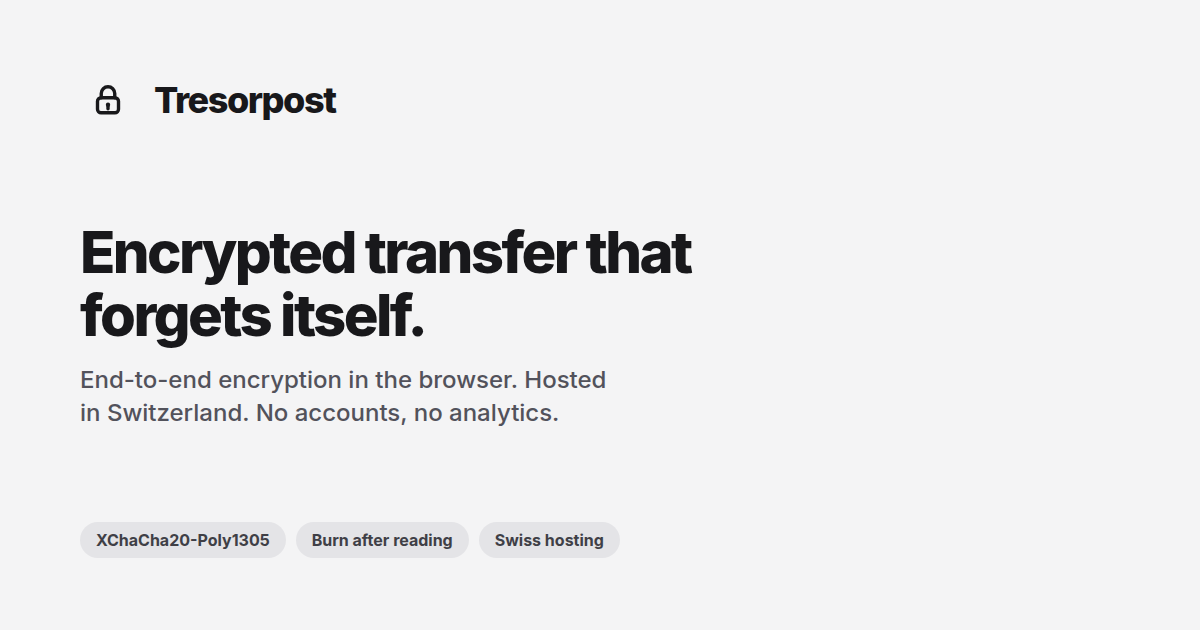
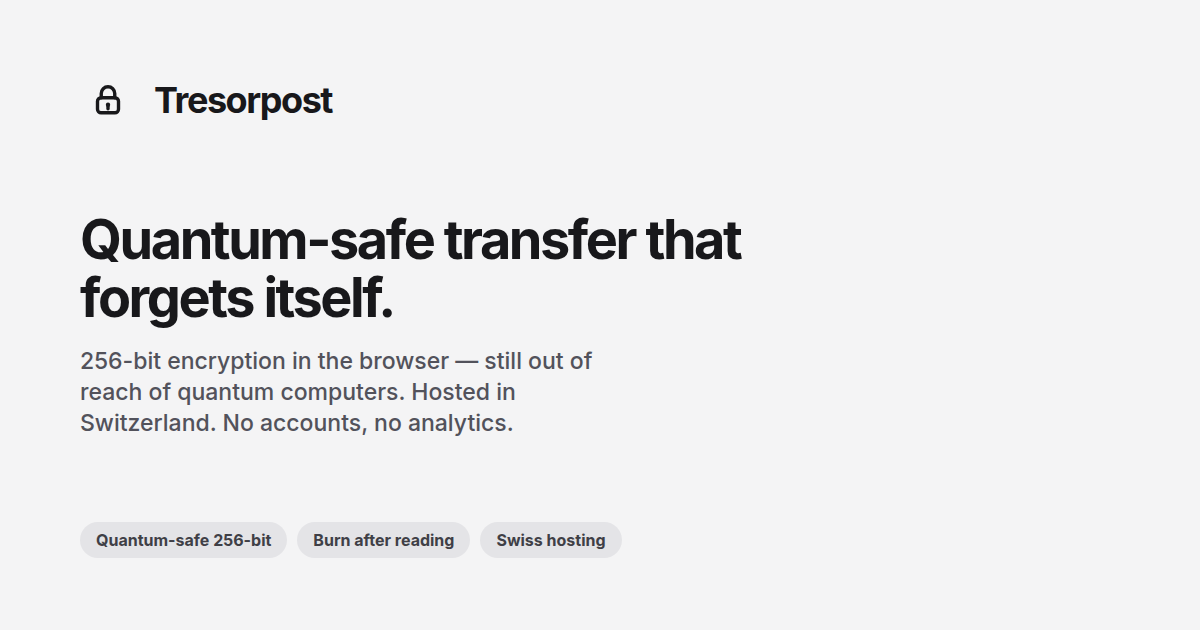
feat: quantum-safe OG headline that still forgets itself
The card kept the distinctive closer and named the 256-bit quantum-safe
claim instead of a generic “encrypted transfer” line.

Changed region(s): [[0.0617, 0.3317, 0.6167, 0.6937], [0.0617, 0.8444, 0.5242, 0.8746], [0.1233, 0.1206, 0.2775, 0.181]]

diff --git a/frontend/index.html b/frontend/index.html
@@ -6,8 +6,8 @@
   <meta name="color-scheme" content="light dark" />
   <meta name="theme-color" content="#f4f4f5" media="(prefers-color-scheme: light)" />
   <meta name="theme-color" content="#09090b" media="(prefers-color-scheme: dark)" />
-  <title>Tresorpost — encrypted self-destructing file transfer</title>
-  <meta name="description" content="End-to-end encrypted, self-destructing transfer for text, images, video and files. Encrypted in your browser, hosted in Switzerland, no accounts and no analytics." />
+  <title>Tresorpost — quantum-safe transfer that forgets itself</title>
+  <meta name="description" content="Quantum-safe, end-to-end encrypted transfer for text, images, video and files. 256-bit encryption in your browser, hosted in Switzerland, no accounts and no analytics." />
   <meta name="robots" content="index, follow" />
   <meta name="author" content="DOL" />
   <link rel="canonical" href="https://tresorpost.ch/" />
@@ -16,17 +16,17 @@
   <meta property="og:type" content="website" />
   <meta property="og:locale" content="en_GB" />
   <meta property="og:url" content="https://tresorpost.ch/" />
-  <meta property="og:title" content="Tresorpost — encrypted self-destructing file transfer" />
-  <meta property="og:description" content="End-to-end encrypted transfer. The key stays in the link. Hosted in Switzerland. No analytics." />
+  <meta property="og:title" content="Tresorpost — quantum-safe transfer that forgets itself" />
+  <meta property="og:description" content="256-bit encryption in the browser — still out of reach of quantum computers. Hosted in Switzerland. No accounts, no analytics." />
   <meta property="og:image" content="https://tresorpost.ch/og.png" />
   <meta property="og:image:width" content="1200" />
   <meta property="og:image:height" content="630" />
   <meta property="og:image:type" content="image/png" />
-  <meta property="og:image:alt" content="Tresorpost padlock — encrypted transfer hosted in Switzerland" />
+  <meta property="og:image:alt" content="Tresorpost — quantum-safe transfer that forgets itself" />
   <meta name="twitter:card" content="summary_large_image" />
-  <meta name="twitter:image:alt" content="Tresorpost padlock — encrypted transfer hosted in Switzerland" />
-  <meta name="twitter:title" content="Tresorpost — encrypted self-destructing file transfer" />
-  <meta name="twitter:description" content="End-to-end encrypted transfer. The key stays in the link. Hosted in Switzerland. No analytics." />
+  <meta name="twitter:image:alt" content="Tresorpost — quantum-safe transfer that forgets itself" />
+  <meta name="twitter:title" content="Tresorpost — quantum-safe transfer that forgets itself" />
+  <meta name="twitter:description" content="256-bit encryption in the browser — still out of reach of quantum computers. Hosted in Switzerland. No accounts, no analytics." />
   <meta name="twitter:image" content="https://tresorpost.ch/og.png" />
   <link rel="icon" href="/favicon.svg" type="image/svg+xml" />
   <link rel="apple-touch-icon" href="/apple-touch-icon.svg" />
@@ -39,14 +39,15 @@
         "@id": "https://tresorpost.ch/#app",
         "name": "Tresorpost",
         "url": "https://tresorpost.ch/",
-        "description": "End-to-end encrypted, self-destructing transfer for text, images, video and files. Encrypted in the browser. Hosted in Switzerland. No accounts and no analytics.",
+        "description": "Quantum-safe, end-to-end encrypted, self-destructing transfer for text, images, video and files. Encrypted in the browser. Hosted in Switzerland. No accounts and no analytics.",
         "applicationCategory": "SecurityApplication",
         "operatingSystem": "Web",
         "browserRequirements": "Requires JavaScript and a modern browser",
         "offers": { "@type": "Offer", "price": "0", "priceCurrency": "CHF" },
-        "keywords": "encrypted file transfer, self-destructing message, one-time secret, burn after reading, send password securely, zero-knowledge, Swiss hosting",
+        "keywords": "quantum-safe file transfer, encrypted file transfer, self-destructing message, one-time secret, burn after reading, send password securely, zero-knowledge, Swiss hosting",
         "featureList": [
           "End-to-end encryption (XChaCha20-Poly1305)",
+          "Quantum-safe 256-bit keys",
           "Burn after reading",
           "Zero-knowledge server",
           "Swiss hosting",
@@ -81,8 +82,8 @@
 <div id="root"></div>
 <noscript>
   <main>
-    <h1>Tresorpost — encrypted self-destructing file transfer</h1>
-    <p>Share text, images, video and files with end-to-end encryption. The key stays in the link. The server stores only ciphertext, hosted in Switzerland, with no analytics.</p>
+    <h1>Tresorpost — quantum-safe transfer that forgets itself</h1>
+    <p>Share text, images, video and files with 256-bit end-to-end encryption that remains out of reach of quantum computers. The key stays in the link. The server stores only ciphertext, hosted in Switzerland, with no analytics.</p>
     <p>JavaScript is required to encrypt and send a secret.</p>
     <p><a href="/faq">How it works</a> · <a href="/privacy">Privacy</a> · <a href="https://github.com/dol-ch/tresorpost">Source code</a></p>
   </main>

diff --git a/frontend/src/seo.ts b/frontend/src/seo.ts
@@ -2,7 +2,7 @@
 export const SITE_ORIGIN = "https://tresorpost.ch";
 
 export const SITE_DESCRIPTION =
-  "End-to-end encrypted, self-destructing transfer for text, images, video and files. Encrypted in your browser, hosted in Switzerland, no accounts and no analytics.";
+  "Quantum-safe, end-to-end encrypted transfer for text, images, video and files. 256-bit encryption in your browser, hosted in Switzerland, no accounts and no analytics.";
 
 type SeoInput = {
   title: string;

diff --git a/frontend/src/App.tsx b/frontend/src/App.tsx
@@ -141,7 +141,7 @@ export function App() {
       return;
     }
     applySeo({
-      title: `${name} — encrypted self-destructing file transfer`,
+      title: `${name} — quantum-safe transfer that forgets itself`,
       description: SITE_DESCRIPTION,
       path: "/",
     });

diff --git a/src/seo.rs b/src/seo.rs
@@ -57,8 +57,8 @@ where
 
 const SITE: &str = "https://tresorpost.ch";
 
-const HOME_TITLE: &str = "Tresorpost — encrypted self-destructing file transfer";
-const HOME_DESCRIPTION: &str = "End-to-end encrypted, self-destructing transfer for text, images, video and files. Encrypted in your browser, hosted in Switzerland, no accounts and no analytics.";
+const HOME_TITLE: &str = "Tresorpost — quantum-safe transfer that forgets itself";
+const HOME_DESCRIPTION: &str = "Quantum-safe, end-to-end encrypted transfer for text, images, video and files. 256-bit encryption in your browser, hosted in Switzerland, no accounts and no analytics.";
 
 const FAQ_TITLE: &str = "How it works — Tresorpost";
 const FAQ_DESCRIPTION: &str = "How Tresorpost encrypts secrets in the browser, keeps the key in the link, and deletes ciphertext after reading. Hosted in Switzerland, no analytics.";
@@ -362,7 +362,7 @@ mod tests {
         assert!(faq.contains("FAQPage"));
         assert!(faq.contains("og.png"));
         let home = rewrite_index_html(html, "/");
-        assert!(home.contains("encrypted self-destructing file transfer"));
+        assert!(home.contains("quantum-safe transfer that forgets itself"));
         assert!(!home.contains("id=\"tresorpost-faq-jsonld\""));
     }
 }
